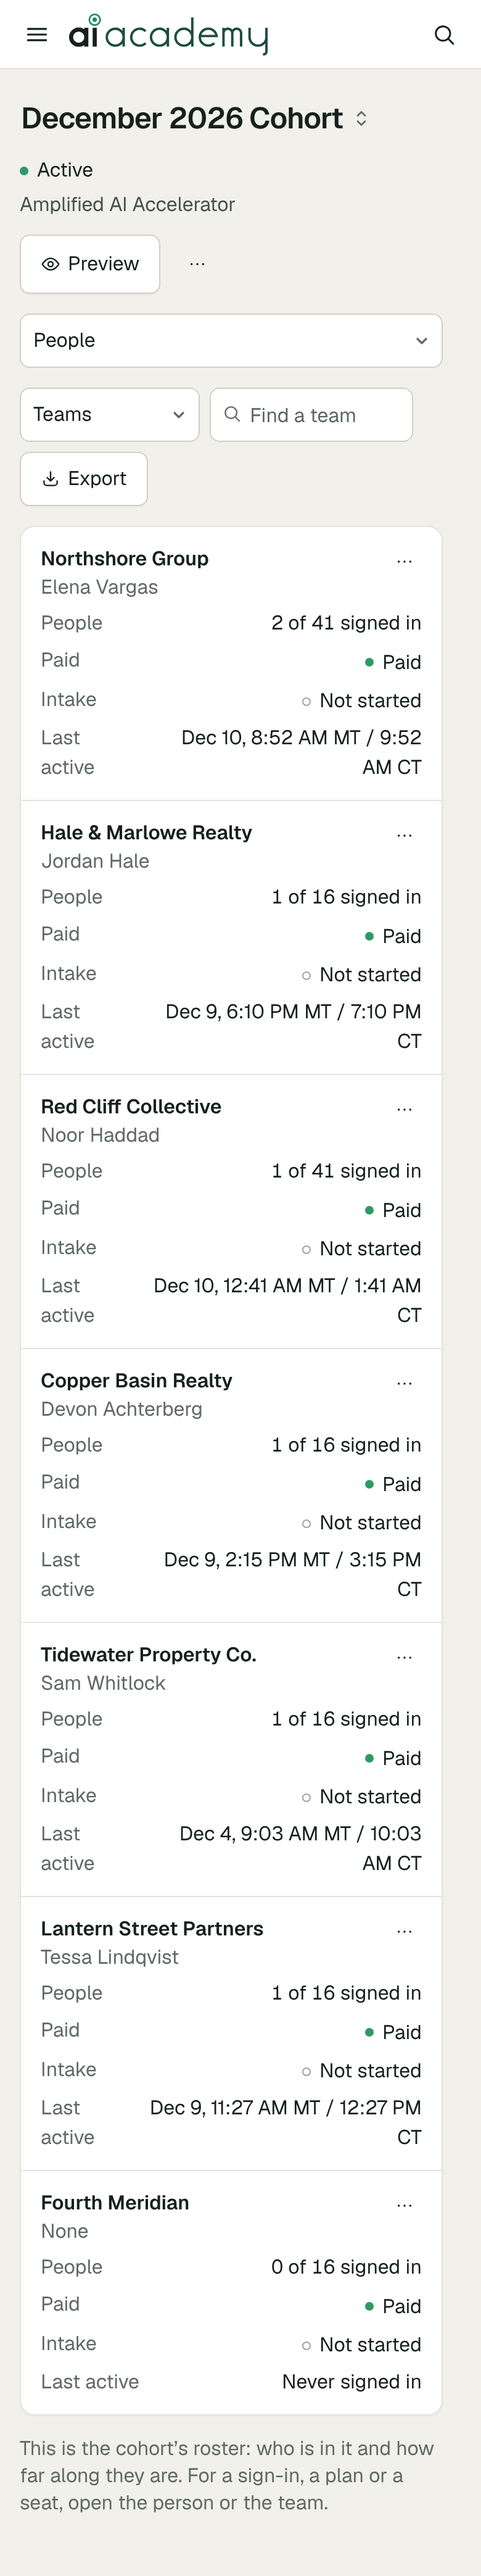
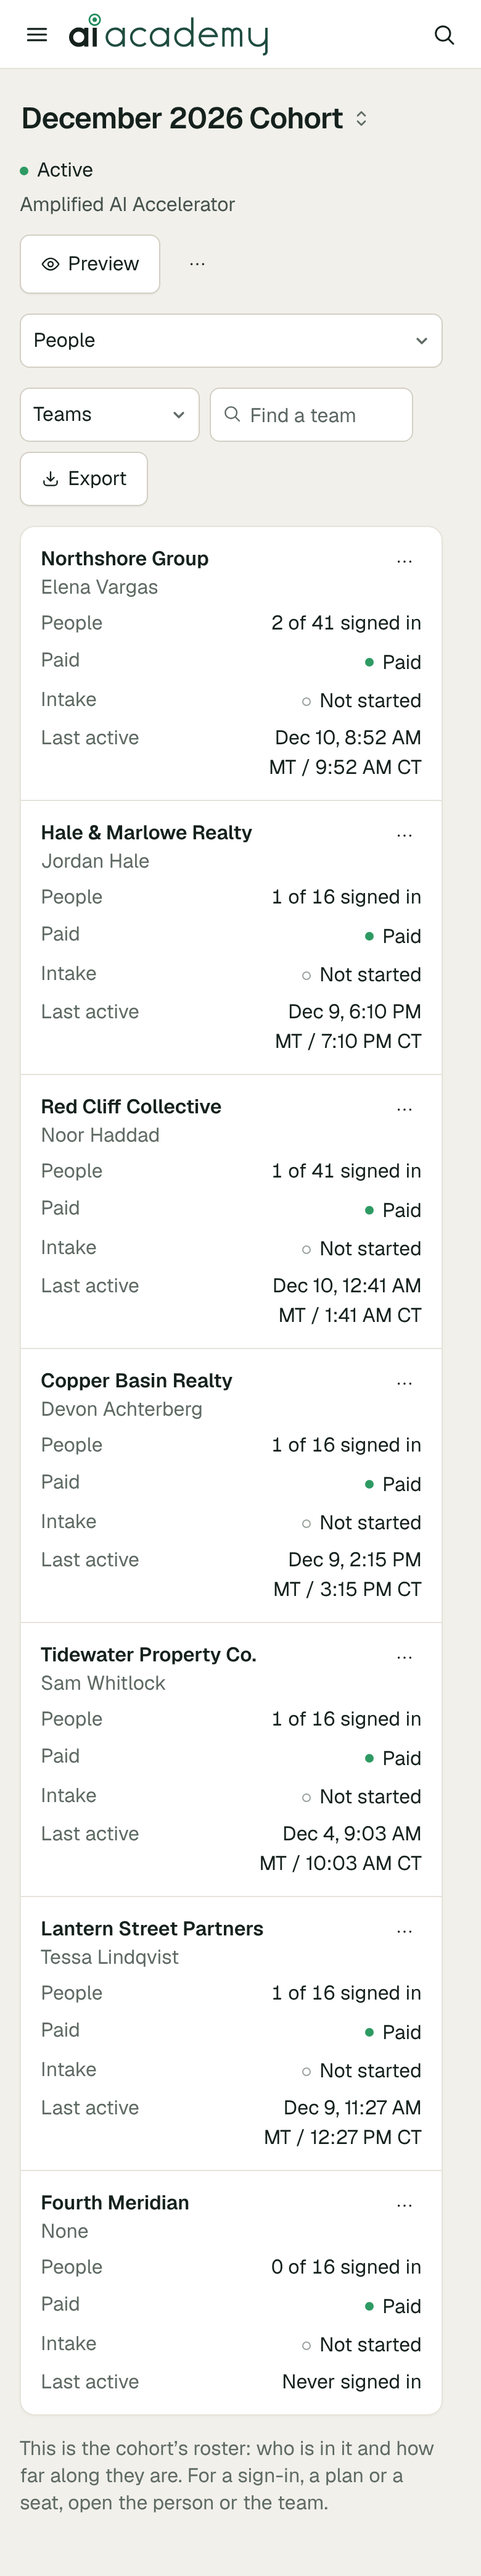
R-5 Phase 7 on Phase 6's final head: the review's MT / CT rule on every Phase 7 screen
Rebased onto 682e2697 (Phase 6 on the audit fixes as merged, 8ab022d3). D-267's review rule now holds on every People
and Cohort screen this phase builds: each stamp is `adminStamp` ("Dec 10, 8:52 AM MT / 9:52 AM CT", through
`fmt.mtCt`), and a narrow column draws it on two lines with `Stamp`, so the columns keep the mockup's widths (Last
active 150px, Utah Life's 170px, an intake's when 164px) instead of the 240px widening. Phase 7's own `stampMtCt` is
gone in favour of `adminStamp`.

- The screenshots whose times or columns moved are re-taken (Everyone and its Utah Life chip, Utah Life, Cohort ›
  People and its Learners, a team, a person, Submissions' team by team); every screen keeps 1440, 1280, 1024 and 390.
- D-268 says where it is built, the stamps rule, the refs on this base and the checks.

Claude-Session: https://claude.ai/code/session_01JTpLsUPf8w863QAh1rWtEb

diff --git a/apps/web/src/routes/admin/cohort/CohortSubmissions.tsx b/apps/web/src/routes/admin/cohort/CohortSubmissions.tsx
@@ -10,7 +10,7 @@ import { Page } from '../../../components/r2/Page';
 import { Status } from '../../../components/r2/Status';
 import { Table } from '../../../components/r2/Table';
 import type { Column } from '../../../components/r2/Table';
-import { Bar, PageHead, Pill, Sel, Tabs, Two, k } from '../../../components/r2/kit';
+import { Bar, PageHead, Pill, Sel, Stamp, Tabs, Two, k } from '../../../components/r2/kit';
 import { useToaster } from '../../../components/primitives/Toaster';
 import { useAct, useDb } from '../../../data/hooks';
 import { teamPath } from '../../../shell/admin/addresses';
@@ -117,12 +117,16 @@ export function Component() {
     {
       key: 'st',
       label: C.columns.status,
-      width: '200px',
+      width: '164px',
       value: (r) => r.statusLabel,
       cell: (r) => (
         <div className={clsx(k.col, s.stw)}>
           <Pill tone={r.tone}>{r.statusLabel}</Pill>
-          {r.when ? <span className={k.me}>{r.when}</span> : null}
+          {r.when ? (
+            <span className={k.me}>
+              <Stamp v={r.when} two />
+            </span>
+          ) : null}
         </div>
       ),
     },

diff --git a/DECISIONS.md b/DECISIONS.md
@@ -8281,20 +8281,20 @@ No migration, env var, Railway variable, Stripe, billing data, role, tier, permi
 ## D-268 · R-5 Phase 7: People (Everyone, Teams, Utah Life), Cohort › People and Cohort › Submissions
 
 **Date:** 2026-11-27
-**Asked for by:** Connor Leiva (repository owner). About the admin mockup, Nov 25, 2026: "This is perfect, create a handoff for Claude code for me." His brief the same day: "Right now it feels like this portal has been constructed to fit the current offering we have for our very first cohort - December. And NOT the other way around where the offering should fit nicely inside the architecture of the portal. Don't over complicate this and prioritize reducing redundancy." The spec is `handoff/admin-mockup/ADMIN-RESTRUCTURE-SPEC.md`, Phase 7 (with § 1, § 4 and § 6); the plan is `handoff/admin-mockup/PLAN.md`, whose § 10 governs (10.7, 10.8, 10.10). The plan on paper, written before any code, is `handoff/admin-mockup/PHASE7.md`. Built on R-5 Phase 6 (D-265, `452c1ba8`), itself on the R-5 audit fixes (D-267, #286). **Numbers:** this entry is D-268 and its migration 0050 (journal idx 50, `when` 1797400000000), after D-267's 0048 and D-265's 0049.
+**Asked for by:** Connor Leiva (repository owner). About the admin mockup, Nov 25, 2026: "This is perfect, create a handoff for Claude code for me." His brief the same day: "Right now it feels like this portal has been constructed to fit the current offering we have for our very first cohort - December. And NOT the other way around where the offering should fit nicely inside the architecture of the portal. Don't over complicate this and prioritize reducing redundancy." The spec is `handoff/admin-mockup/ADMIN-RESTRUCTURE-SPEC.md`, Phase 7 (with § 1, § 4 and § 6); the plan is `handoff/admin-mockup/PLAN.md`, whose § 10 governs (10.7, 10.8, 10.10). The plan on paper, written before any code, is `handoff/admin-mockup/PHASE7.md`. Built on R-5 Phase 6 (D-265), rebased onto its final head (`682e2697`), itself on the R-5 audit fixes as merged (D-267, `8ab022d3`, with its review's rule: every admin time MT / CT through `fmt.mtCt`, a narrow column's stamp on two lines, `Stamp`). **Numbers:** this entry is D-268 and its migration 0050 (journal idx 50, `when` 1797400000000), after D-267's 0048 and D-265's 0049.
 
 - **One rule, one more predicate.** Who counts in a cohort stays D-267's (`@ai/core/cohort-roster`): Cohort › People, its tab count and Submissions' teams are the roster's. The one predicate this phase adds says which team is an access group's team of one (`groupTeamOfOne`, `packages/core/src/people.ts`: no plan row, one member, whose address is in a group, D-148's rule as `inGroup` reads it); People › Teams leaves it out, and the API's list applies the same rule in SQL (`inGroupSql`, `apps/api/src/console/records.ts`).
 - **People › Everyone** (`/admin/people`, the mockup's `PeoplePg`): today's Users with "Got in through" (core's `gotInOf`: the Console's label for the primary plan of the person's team, ranked as `primaryPlan` ranks, else "Skill buyer" for a `skill_purchases` row and no plan, else the name of the first access group by name their address is in, else "No plan"). The column and its filter (`?gotIn=`, a key: `plan:cohort`, `skill`, `group:utah-life`, `none`); the chips built from what exists, each person counted once (`GET /api/console/users/audiences`); Find; Export (Owner and Admin, `export`, the list on screen, audited as `user.export`); the columns Person, Got in through (a square in the audience's colour beside its words), Team ("On their own"), Seat, Last active (MT / CT), Status; the row menu (Open person or Open Utah Life, See them in the cohort, Masquerade…); the line under the table. People's tab strip counts Everyone and Teams (the mockup's `PeopleArea`), from the same answer, and nothing while it is unknown.
 - **People › Teams** (`/admin/people/teams`, `TeamsPg`): today's Workspaces in the mockup's columns: Team (name over owner), Holds (each live plan's label, `holds`), Seats used, Paying (`payingOf`: "Paid in full", "1 of 2 payments", "Comped", "$1,495 a month", "$0", "Nothing", from the primary plan's own order), Status; Find and Product (`?holds=`, a team holding a live plan of the kind). An access group's team of one is left out, and the line under the table says how many ("8 Utah Life agents are not listed here. Utah Life · Everyone"). "Comp a Team" and "Masquerade as owner…" stay where they were.
-- **People › Utah Life** (`/admin/people/groups/:groupId`, `Groups`), in full: its facts (Agents signed in and Active, last 30 days, each opening its Agents table; Gets, opening Words; Who qualifies; Since; Ends), the Agents table (Agent, First sign-in, Last active in MT / CT, Skills opened), What They Can Open (the group's plan's skills; what it does not open; the line a locked skill shows, the copy string `locked.utah_life`, and a link to change it in Words), Most Opened (last 30 days), Where They Are Counted, Export, and the menu's two writes (PLAN § 10.7). From `GET /api/console/groups/:groupId` (`users.read`): the group's record and its agents as D-267 counts them (in the group by their address, in no cohort), each one's first proven address (`email_verifications`, their first sign-in), their guide views (`usage_daily` `guide_view`, Skills opened), and the skills they opened most in the last 30 days.
+- **People › Utah Life** (`/admin/people/groups/:groupId`, `Groups`), in full: its facts (Agents signed in and Active, last 30 days, each opening its Agents table; Gets, opening Words; Who qualifies; Since; Ends), the Agents table (Agent, First sign-in, Last active in MT / CT on two lines, Skills opened), What They Can Open (the group's plan's skills; what it does not open; the line a locked skill shows, the copy string `locked.utah_life`, and a link to change it in Words), Most Opened (last 30 days), Where They Are Counted, Export, and the menu's two writes (PLAN § 10.7). From `GET /api/console/groups/:groupId` (`users.read`): the group's record and its agents as D-267 counts them (in the group by their address, in no cohort), each one's first proven address (`email_verifications`, their first sign-in), their guide views (`usage_daily` `guide_view`, Skills opened), and the skills they opened most in the last 30 days.
   - **Migration `0050_skill_opens.sql`** (additive: a new table `skill_opens_daily`, day, user, skill, count; no row written). Nothing recorded which skill a learner opened, so Most Opened could not be built from what existed. The skill guide route now counts one open beside its `guide_view` (`recordSkillOpen`, fire-and-forget, learners only, skipped in a masquerade, as `recordUsage`); it changes nothing the route answers. The card fills from the day this ships.
   - **The two writes** (Owner and Admin: a new Console capability `access_group.write`, "Manage an Access Group", beside `billing.comp` and, like it, not on the signed-off Roles matrix). Each is confirmed in a dialog first and writes one `audit_log` row in the same transaction. "Add an address outside the domain…" (`POST …/addresses`, `access_group.address_add`) lists one address on the group (`access_group_members`): it is in the group once its owner proves it, D-148's rule; it makes no account and sends nothing; an address already at the group's domain or already listed is refused. "End access…" (`POST …/end`, `access_group.end`, with a reason of 10 to 500 characters, the Console's own rule) sets the group's `expires_at` to now: its agents lose what it grants on their next request (D-148: the grant is worked out on every request), their accounts stay. A second end is refused. Neither writes to GoHighLevel, Stripe or anyone's plan. Support sees both locked; the server refuses them (403, audited as a refusal).
 - **Cohort › People** (`/admin/cohort/:id/people`, `CohortPeople`): it replaces Learners & Teams; the drawer and the export stay. Teams first ("Teams 7 of 200": the roster's teams of the cohort's seats) and Learners: each team's people signed in of its seats, Paid (the cohort facts' new `teamRows`: "Paid", "1 of 2 payments", "Comped"), Intake (Submitted, Draft, Not started), its progress on the week the cohort is on (read from its run: the last week that has opened, else its first, so Week 0 before Week 1 opens; a team's is its most advanced member's) and Last active; each learner's team, seat, progress and last active ("Invited, not signed in"). A team opens the team; a learner opens the person; a learner's menu still opens their details (the drawer, `setLearnerTier`, Send Nudge / Resend Invite); Export downloads the roster as CSV. The learner list reads the run, not a module's dates.
 - **Cohort › Submissions** (`/admin/cohort/:id/submissions`, `CohortSubs`), a tab now (D-265 item 10 left it here), after People, `?view=` for each of its four views: Intake, added up (the facts, each count opening the teams; a tally per choice question; a question read across every team); Intake, team by team (status and when, answered of the form's questions, GHL); Turned in, by step (each step of the cohort's weeks that asks for a file: teams that turned one in, not looked at, picked, reviewed, not turned in yet; a row opens that week's files); Turned in, every file (D-265's `SubmissionsCard` and `SeatCardsCard`, unchanged, one week at a time, where the staff-only status is set and the files-deleted line keeps D-237's rule). The intake is every roster team's (`GET /api/admin/cohorts/:id/intake`, the `cohorts` permission as the facts route; its answers limited to the form's questions; one `intake.read` audit row naming the cohort per read). Export CSV downloads the intake, team by team.
 - **People › a team, a person:** unchanged in this phase. Their way back is Teams and People since D-253, as the mockup's third pass draws it.
-- **Times:** every time on these screens prints "Dec 10, 8:52 AM MT / 9:52 AM CT" (`stampMtCt`, `packages/core/src/admin-build.ts`, through `fmt.mtCt`), stamps included; no "MT only" stamp and no "Times are MT" line. The "Last active" columns are 240px (the mockup's 150px and 170px cut the CT half off).
+- **Times:** every time on these screens prints "Dec 10, 8:52 AM MT / 9:52 AM CT" (`adminStamp`, through `fmt.mtCt`, D-267's review rule), stamps included; no "MT only" stamp and no "Times are MT" line. In a narrow column a stamp is D-267's `Stamp` on two lines ("Dec 10, 8:52 AM" over "MT / 9:52 AM CT"), so the columns keep the mockup's widths (Last active 150px; Utah Life's 170px; an intake's when 164px).
 - **PLAN § 10.10, the allowlist.** No entry was marked phase 7. The one that named this phase (`cohort-actions.ts`: December's run mirrored onto its modules) stays, phase 9, its reason re-worded: the learner list reads the run now; the dashboard (Phase 9), `build-audit.ts` and `curriculum-week.ts` still read a module's dates. The hard-code check: "ok (35 still to move, 20 not cohort-specific, 8 files ignored)"; its cohort-name check finds nothing in this phase's code.
-- **The R2 reference** (`design-reference/admin-redesign-r2/AdminRedesign.jsx`) gains `PeoplePg` (as `Users`), `TeamsPg` (as `Workspaces`), the rest of `Groups`, `CohortPeople` (as `Learners`), People's two tab counts and the Cohort page's Submissions tab, on this reference's own data (`USERS`, `WS`, `ULA_R2`; December with no weeks in its run, D-267, so no week column), with PLAN § 10.8's words and every stamp in MT / CT. Submissions' own page is drawn in the app, not in this reference (`OffRef`), so it has no ref of its own yet. The render setup was proved first: `users`, `learners` and `utah-life` rendered byte-identical before any change. **52 refs change**, each for one of these: `users`, `workspaces`, `utah-life` and `learners` at four widths (replaced, PLAN § 7); `masquerade` at 1440, 1280 and 1024 (People's tab counts); and the Cohort tab strip's Submissions tab on `announce`, `cohort-overview`, `cohort-schedule`, `cohort-settings`, `cohort-close`, `january-overview`, `january-schedule`, `january-settings`, `january-enrollment`, `january-open` and `january-price` at 1440, 1280 and 1024 (on a phone the tabs are a select). Every other ref renders byte-identical. Both manifests recomputed from the files. Still 192 refs (48 stems at four widths). `pnpm parity:admin-r2`: 193 passed, 4 failed (`workspace-detail` at its four widths, as on `main`); after the last fixes the 16 People and Cohort › People cells were run again, all passing.
+- **The R2 reference** (`design-reference/admin-redesign-r2/AdminRedesign.jsx`) gains `PeoplePg` (as `Users`), `TeamsPg` (as `Workspaces`), the rest of `Groups`, `CohortPeople` (as `Learners`), People's two tab counts and the Cohort page's Submissions tab, on this reference's own data (`USERS`, `WS`, `ULA_R2`; December with no weeks in its run, D-267, so no week column), with PLAN § 10.8's words and every stamp in MT / CT. Submissions' own page is drawn in the app, not in this reference (`OffRef`), so it has no ref of its own yet. The render setup was proved first: `users`, `learners` and `utah-life` rendered byte-identical before any change. **52 refs change**, each for one of these: `users`, `workspaces`, `utah-life` and `learners` at four widths (replaced, PLAN § 7); `masquerade` at 1440, 1280 and 1024 (People's tab counts); and the Cohort tab strip's Submissions tab on `announce`, `cohort-overview`, `cohort-schedule`, `cohort-settings`, `cohort-close`, `january-overview`, `january-schedule`, `january-settings`, `january-enrollment`, `january-open` and `january-price` at 1440, 1280 and 1024 (on a phone the tabs are a select). Every other ref renders byte-identical. On Phase 6's final head every ref was rendered again: the same 52 differ from its refs and the other 140 are byte-identical to them; both manifests were rebuilt from the files (192 rows, each matching its file). Still 192 refs (48 stems at four widths). `pnpm parity:admin-r2`: 193 passed, 4 failed (`workspace-detail` at its four widths, as on `main`).
 - **December stays byte-identical.** `apps/api/test/december.test.ts`, `fixtures/december/golden.json`, `december-others.ts` and `others.json` are unchanged (no diff against `452c1ba8`) and pass (9 of 9, and in the full API suite). This phase has no data step and writes no December row. The learner's snapshot is unchanged: nothing here is in it (the counts, the groups' tab and the intake are staff's routes). The skill guide route's new count changes nothing it answers. No `compliance/goldens/` file, mask or tolerance moves. No Stripe, Payment Link or GoHighLevel write; `audit_log` only gains rows. No `/agreement` edit. No Railway variable.
 - **New strings** (the mockup's unless marked *new*; Title Case per § 10.8): Everyone's "Audience", "Everyone", "Find a person by name or email", "Export", "Person", "Got in through", "Team", "Seat", "Last active", "Status", "On their own", "None", "Never", "No one matches", "Try another audience or fewer letters.", "Open person", "Open {group}", "See them in the cohort", "Showing {n} of {m}.", "This list is for the account: sign-in, plan and seat. To see how a cohort is doing, open the cohort’s People tab.", "Skill buyer" (the spec's), "Skill buyers", *"No plan"*; Teams' "Every team account and what it holds.", "Find a team or its owner", "Product", "All products", "Holds", "Seats used", "Paying", "No team matches", "Open team", "{n} {group} agents are not listed here." (*"1 {group} agent is not listed here."*), *"Paid in full", "{n} of 2 payments", "Comped", "{amount} a month", "$0", "Nothing"* (the mockup's sample words for Paying, as a rule); Utah Life's "Access group", "Add an address outside the domain…", "End access…", *"More for this group"*, "Agents signed in", "Active, last 30 days", "Gets", "{plan} skills, free", "Who qualifies", "A verified @{domain} address", *"An address on its list"*, "Since", "Ends", "No end date", "First sign-in", "Skills opened", "What They Can Open", "The {plan}’s skills", "Every {set} skill, and each new one as it is released", "Not the Accelerator, not team skills" (*"Not the Accelerator"* for a plan with team skills), "A locked skill says “{line}”", "Change that line in Words", "Most Opened", "Last 30 days", *"Nothing opened in the last 30 days."*, "Where They Are Counted", "A cohort" "Never. They are not in one.", "Teams" "Never. Each is one person.", "Revenue" "Never. The access is free.", "End {group} access?", "{n} agents lose the {plan}’s skills right away. Their accounts stay, with nothing to open.", "End access", "Access ended", "Reason", "Required", *"Add an address to {group}", "The address is in the group once its owner signs in with it. Nothing is emailed.", "Email address", "Add address", "Address added", "Enter one email address, like name@example.com.", "Every {domain} address is in {group} already.", "{email} is on {group}’s list already.", "{group}’s access has ended already.", "That didn’t save. Try again."*, *"Manage an Access Group"* (the capability), *"Access Groups"* (the Audit Log's action group); Cohort › People's "Teams", "Learners", "Find a team", "Find a person", "People", "Paid", "Intake", "Learner", "Week {n}", "{n} of {m} signed in", "Submitted", "Draft", "Not started", "Never signed in", "Invited, not signed in", "Open team", "Read their intake", "What they turned in", "This is the cohort’s roster: who is in it and how far along they are. For a sign-in, a plan or a seat, open the person or the team.", "No one is enrolled yet", "Enrollment is open. The first team to buy a seat shows up here.", "Enrollment is closed. Open it from Overview, and a team that buys a seat is placed here.", *"Open learner details", "Exported as CSV"* (the mockup's toast); Cohort › Submissions' "Intake, added up", "Intake, team by team", "Turned in, by step", "Turned in, every file", "Export CSV", "Intake answers and turned-in files show up here once teams are enrolled.", "Form", "Week 0 Intake · {n} questions", "{n} of {m} teams", "In draft", "GHL", "Not answered", "Read One Question Across the Cohort", "Pick a question. Every team’s answer is beside it.", "{n} of {m} teams answered", "Answered", "Ask", "Teams turned in", "Not looked at", "Picked", "Reviewed", "Not turned in yet", "What Each Week Asks For", "Only staff see a status. Teams see what they sent." (the mockup's two sentences, one sentence), *"View", "Question", "{n} synced · {m} failed", "Saved {when}", "Synced", "Pending", "Failed", "Not sent", "All statuses", "No week asks for a file yet."*; the files *"cohort-roster-{cohort}.csv", "intake-{cohort}.csv", "{group}-agents.csv"*; and every stamp "Dec 10, 8:52 AM MT / 9:52 AM CT".
 - **Decided overnight** (the most conservative reading of the spec and PLAN § 10; each for Connor to check):
@@ -8317,10 +8317,10 @@ No migration, env var, Railway variable, Stripe, billing data, role, tier, permi
   17. *A team's "Read their intake" and "What they turned in"* open Cohort › Submissions' team-by-team and every-file views: the team page's own Intake and Turned in tabs (the mockup's earlier rounds) are not built (below).
   18. *Reading every team's intake is audited once per read* (`intake.read`, the cohort as target), as opening one team's is audited once.
   19. *Submissions has no ref of its own yet*: the reference draws its tab, and the page is the app's (`OffRef`).
-  20. *The "Last active" columns are 240px*, so "MT / CT" fits on one line (PLAN § 10.8: times on one line).
+  20. *A stamp in a narrow column is two lines* (D-267's `Stamp`), as the reference draws it, rather than a wider column.
   21. *The phone's 16px floor* for Utah Life's plain fact values in the reference port (`.p7f`), as D-265's decision 18; the mockup sets them at 15px.
   22. *In the fixture and the parity world*, Utah Life's eight agents are learners in the Console's users (People › Everyone lists them), each on no team; Cohort › People's fixture facts read every roster team paid in full with no intake started; Utah Life's page has the reference's own Words.
 - **Tests.** Core `people.test.ts` (6) and the capability table. API `people.test.ts` (8: "Got in through" and its filter, People's counts each person once, Teams without the agent's team of one, Utah Life's agents and Most Opened, both writes refused for Support and audited once for Admin and Owner, End access taking the grant away, the facts' team rows, every roster team's intake audited once); the route and authorization tables (`authz.test.ts`, `console-authz.test.ts`), the paused Console in a masquerade, `console-support.test.ts`, `cohort-page.test.ts` and the schema test know the new routes, fields and table. Web `people.vm.test.ts` (7), and the shell, fixture, Audit Log and Users tests for the new tab, the fixture's agents and the new action group. e2e `admin-people.spec.ts` (each screen with axe at 1280 and 390 and no "MST", Utah Life's facts and cards, both writes confirmed and Support's locked, the roster's export, Submissions' four views); `admin-numbers.spec.ts` walks Submissions' other views, Cohort › People's Learners and January's People too; `admin-frame`, `admin-r2-build`, `admin-r2-users-search`, `admin-r2-workspaces`, `admin-r2-masquerade` and `admin-audit-fixes` follow the new screens. `december.test.ts` is not among the changed.
-- **Screenshots:** `handoff/admin-mockup/compare/r5-phase7/` (README, `shoot.spec.ts`, `shoot.config.ts`): Everyone (and its Utah Life chip), Teams, Utah Life, a team, a person, Cohort › People (Teams and Learners) and Cohort › Submissions' four views, each at 1440, 1280, 1024 and 390: 48 files.
-- **Checks** (local Postgres 16; nothing in Docker; `pnpm gate 9` not run here). `pnpm typecheck` clean (and `compliance`'s own tsconfig); `pnpm lint` clean, with the hard-code check above and the zone check "ok (193 admin files, no "MST")"; core 1,188 of 1,188 (75 files); web 4,455 passed, 1 skipped (223 files); API 3,049 of 3,049 (118 files, `december.test.ts` among them); e2e on every spec covering People, Cohort and Submissions and the number walk (the eight above): all passing, 1 skipped; `pnpm parity:admin-r2` as above. Not run here, as asked: the full `pnpm e2e`, `pnpm compliance`, `e2e:v3`, `e2e:learn`, `parity:learner` and `compliance:http`; CI runs them.
+- **Screenshots:** `handoff/admin-mockup/compare/r5-phase7/` (README, `shoot.spec.ts`, `shoot.config.ts`): Everyone (and its Utah Life chip), Teams, Utah Life, a team, a person, Cohort › People (Teams and Learners) and Cohort › Submissions' four views, each at 1440, 1280, 1024 and 390: 48 files. Re-taken on Phase 6's final head where they moved (Everyone, Utah Life, Cohort › People, a team and a person, whose stamps are two lines now, and Submissions' team by team, its when column 164px).
+- **Checks** (local Postgres 16; nothing in Docker; `pnpm gate 9` not run here), on Phase 6's final head. `pnpm typecheck` clean (and `compliance`'s own tsconfig); `pnpm lint` clean, with the hard-code check above and the zone check "ok (193 admin files, no "MST", no time in MT alone)"; core 1,188 of 1,188 (75 files); web 4,455 passed, 1 skipped (223 files); API 3,049 of 3,049 (118 files, `december.test.ts` among them); e2e on every spec covering People, Cohort and Submissions, `admin-audit-fixes` and the number walk (the eight above): 100 passed, 1 skipped; `pnpm parity:admin-r2` as above. Not run here, as asked: the full `pnpm e2e`, `pnpm compliance`, `e2e:v3`, `e2e:learn`, `parity:learner` and `compliance:http`; CI runs them.
 - **For Connor to check:** the 22 decisions above; and what this phase leaves: People › a team's own Intake and Turned in tabs and its GHL card (the mockup's earlier-round `WsIntake`, `WsTurnedIn`, `WsGhl`; the team page keeps its Intake card, and `workspace-detail` still fails as on `main`), the intake views' "To sort out" flags and their AI Implementer and AI columns (they read named questions of December's form), Submissions' own ref and parity cell, and that Most Opened fills from the deploy.
